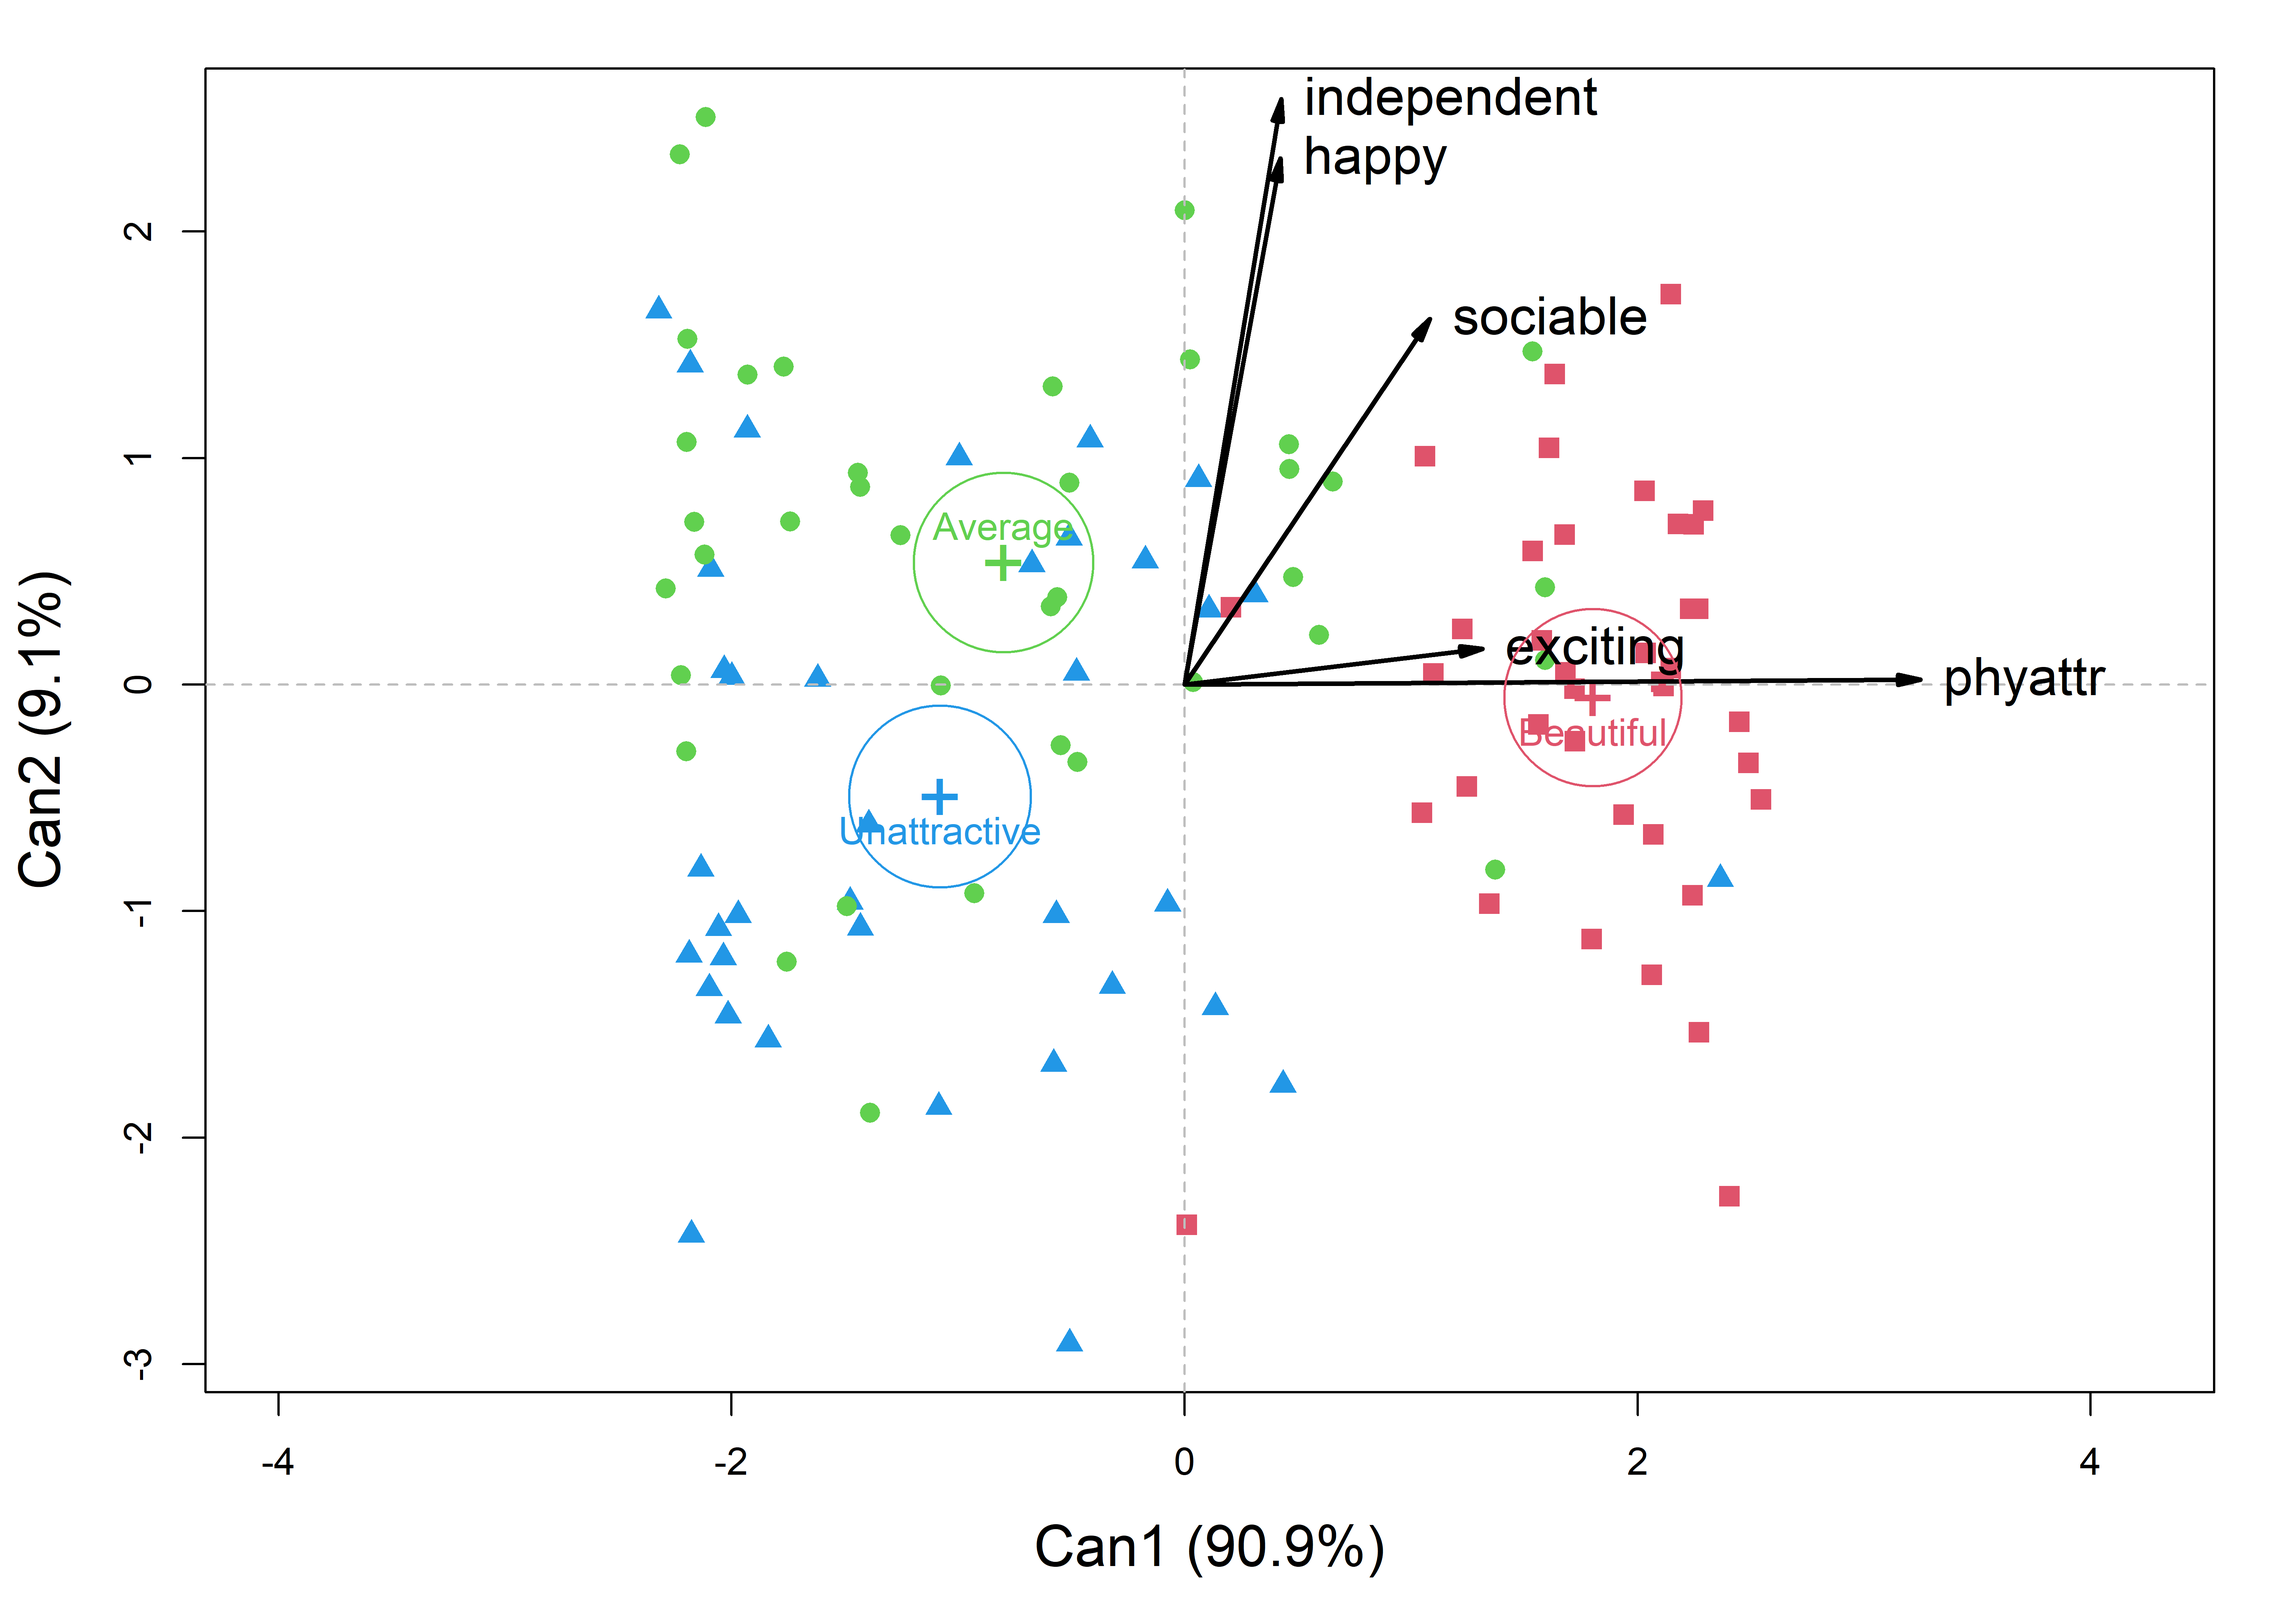
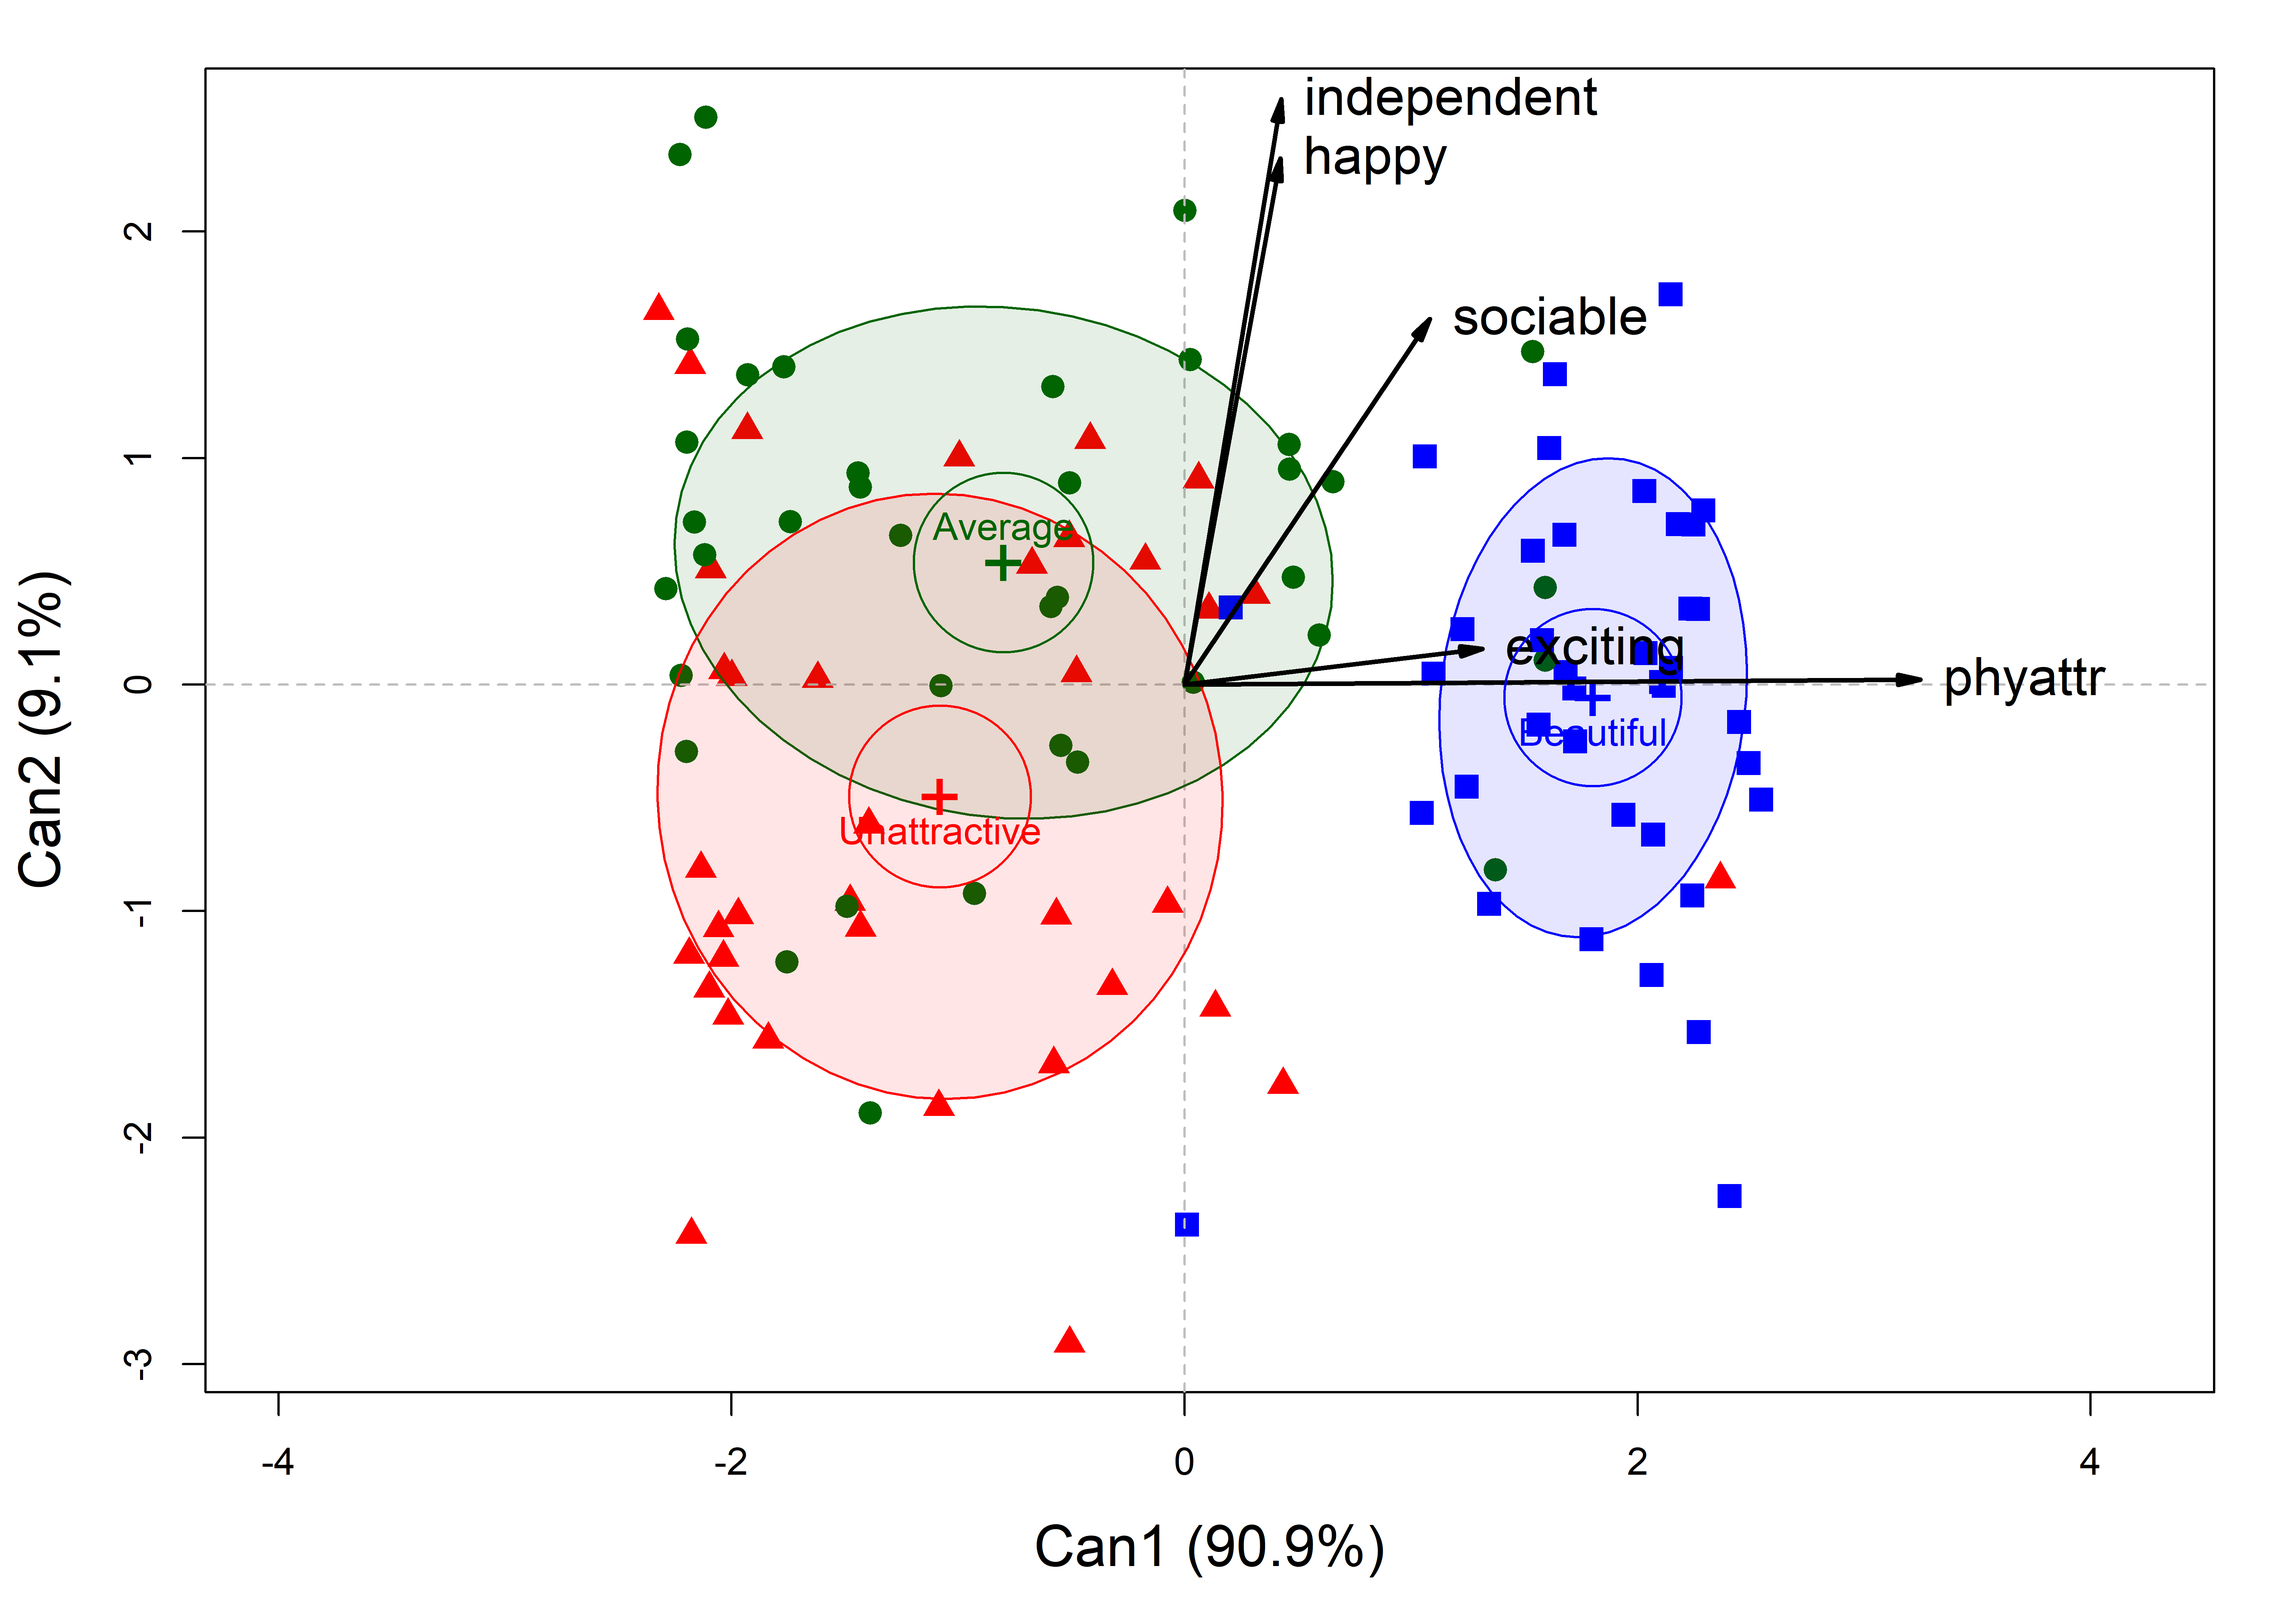
tweak Ch10 MockJury ex

diff --git a/docs/11-mlm-viz.html b/docs/11-mlm-viz.html
@@ -1069,7 +1069,7 @@ Figure&nbsp;11.12: HE plot for effects on <code>tear</code> and <code>gloss</cod
 <img src="figs/ch11/fig-jury-HE-1.png" class="img-fluid quarto-figure quarto-figure-center figure-img" style="width:100.0%">
 </div>
 <figcaption class="quarto-float-caption-bottom quarto-float-caption quarto-float-fig" id="fig-jury-HE-caption-0ceaefa1-69ba-4598-a22c-09a6ac19f8ca">
-Figure&nbsp;11.13: Two pairwise HE plots showing the effect of the classified attractivenes of the photo and ratings of those photos. Left: <code>exciting</code> vs.&nbsp;<code>phyattr</code> ratings; right: <code>independent</code> vs.&nbsp;<code>phyattr</code> ratings
+Figure&nbsp;11.13: Two pairwise HE plots showing the effect of the classified attractivenes of the photo and ratings of those photos. Left: <code>exciting</code> vs.&nbsp;<code>phyattr</code> ratings; right: <code>independent</code> vs.&nbsp;<code>phyattr</code> ratings.
 </figcaption></figure>
 </div>
 </div>
@@ -1099,13 +1099,16 @@ Figure&nbsp;11.13: Two pairwise HE plots showing the effect of the classified at
 </div>
 <p>The 2D plot of canonical scores in <a href="#fig-jury-can" class="quarto-xref">Figure&nbsp;<span>11.14</span></a> gives a very simple description for this model. Dimension <code>Can1</code> widely separates the photo groups, and this dimension is nearly perfectly aligned with the <code>phyattr</code> ratings. Ratings for <code>exciting</code> are also strongly associated with this. This finding is sufficient to claim the validity of the classification used in the experiment.</p>
 <div class="cell" data-layout-align="center">
-<div class="sourceCode" id="cb27" data-source-line-numbers="nil" data-code-line-numbers="nil"><pre class="downlit sourceCode r code-with-copy"><code class="sourceCode R"><span><span class="fu"><a href="https://rdrr.io/r/graphics/plot.default.html">plot</a></span><span class="op">(</span><span class="va">jury.can1</span>, rev.axes <span class="op">=</span> <span class="fu"><a href="https://rdrr.io/r/base/c.html">c</a></span><span class="op">(</span><span class="cn">TRUE</span>, <span class="cn">TRUE</span><span class="op">)</span>,</span>
+<div class="sourceCode" id="cb27" data-source-line-numbers="nil" data-code-line-numbers="nil"><pre class="downlit sourceCode r code-with-copy"><code class="sourceCode R"><span><span class="va">col</span> <span class="op">&lt;-</span> <span class="fu"><a href="https://rdrr.io/r/base/c.html">c</a></span><span class="op">(</span><span class="st">"blue"</span>, <span class="st">"darkgreen"</span>, <span class="st">"red"</span><span class="op">)</span></span>
+<span><span class="fu"><a href="https://rdrr.io/r/graphics/plot.default.html">plot</a></span><span class="op">(</span><span class="va">jury.can1</span>, rev.axes <span class="op">=</span> <span class="fu"><a href="https://rdrr.io/r/base/c.html">c</a></span><span class="op">(</span><span class="cn">TRUE</span>, <span class="cn">TRUE</span><span class="op">)</span>,</span>
+<span>     col <span class="op">=</span> <span class="va">col</span>,</span>
+<span>     ellipse <span class="op">=</span> <span class="cn">TRUE</span>, ellipse.prob <span class="op">=</span> <span class="fl">0.5</span>,</span>
 <span>     lwd <span class="op">=</span> <span class="fl">3</span>,</span>
 <span>     var.lwd <span class="op">=</span> <span class="fl">2</span>,</span>
 <span>     var.cex <span class="op">=</span> <span class="fl">1.4</span>,</span>
 <span>     var.col <span class="op">=</span> <span class="st">"black"</span>,</span>
 <span>     pch <span class="op">=</span> <span class="fl">15</span><span class="op">:</span><span class="fl">17</span>,</span>
-<span>     cex <span class="op">=</span> <span class="fl">1.2</span>,</span>
+<span>     cex <span class="op">=</span> <span class="fl">1.4</span>,</span>
 <span>     cex.lab <span class="op">=</span> <span class="fl">1.5</span><span class="op">)</span></span></code><button title="Copy to Clipboard" class="code-copy-button"><i class="bi"></i></button></pre></div>
 <div class="cell-output-display">
 <div id="fig-jury-can" class="quarto-float quarto-figure quarto-figure-center anchored" data-fig-align="center">
@@ -1113,12 +1116,12 @@ Figure&nbsp;11.13: Two pairwise HE plots showing the effect of the classified at
 <img src="figs/ch11/fig-jury-can-1.png" class="img-fluid quarto-figure quarto-figure-center figure-img" style="width:80.0%">
 </div>
 <figcaption class="quarto-float-caption-bottom quarto-float-caption quarto-float-fig" id="fig-jury-can-caption-0ceaefa1-69ba-4598-a22c-09a6ac19f8ca">
-Figure&nbsp;11.14: Canonical discriminant plot for the factor <code>Attr</code> …
+Figure&nbsp;11.14: Canonical discriminant plot for the factor <code>Attr</code> in the model <code>jury.mod1</code> for the ratings of the photos classified as <span style="color: blue;">Beautiful</span> <span style="color: darkgreen;">Average</span> or <span style="color: red;">Unattractive</span> . Ellipses have 50% coverage for the canonical scores. Variable vectors reflect the correlations of the rating scales with the canonical dimensions.
 </figcaption></figure>
 </div>
 </div>
 </div>
-<p>The second canonical dimension, <code>Can2</code> is also of some interest. The photo means differ here mainly between those considered of Average beauty and those classified as Unattractive. The ratings for independent and happy are most strongly associated with this. Ratings on <code>sociable</code> are related to both dimensions, but more so with <code>Can2</code>.</p>
+<p>The second canonical dimension, <code>Can2</code> is also of some interest. The photo means differ here mainly between those considered of Average beauty and those classified as Unattractive. The ratings for independent and happy are most strongly associated with this dimension. Ratings on <code>sociable</code> are related to both dimensions, but more so with <code>Can2</code>.</p>
 </div>
 </section><section id="quantitative-predictors-mmra" class="level2" data-number="11.9"><h2 data-number="11.9" class="anchored" data-anchor-id="quantitative-predictors-mmra">
 <span class="header-section-number">11.9</span> Quantitative predictors: MMRA</h2>
@@ -1589,7 +1592,7 @@ Huang, F. L. (2019). <span>MANOVA</span>: A procedure whose time has passed? <em
 <li id="fn7"><p>If significance scaling was used the interpretation of the canonical HE plot plot would the same as before: if the hypothesis ellipse extends beyond the error ellipse, then that dimension is significant.<a href="#fnref7" class="footnote-back" role="doc-backlink">↩</a></p></li>
 <li id="fn8"><p>As in univariate linear models, any factors or covariates ignored in the model formula have their effects pooled with the error term, reducing the sensitivity of their tests.<a href="#fnref8" class="footnote-back" role="doc-backlink">↩</a></p></li>
 <li id="fn9"><p>You could test this comparison with a more focused 1 df linear hypothesis using the contrast <span class="math inline">\((1, -\frac12, -\frac12)\)</span> for the levels of <code>Attr</code>.<a href="#fnref9" class="footnote-back" role="doc-backlink">↩</a></p></li>
-<li id="fn10"><p>For MANOVA designs there is a separate analysis for each term in the model. …<a href="#fnref10" class="footnote-back" role="doc-backlink">↩</a></p></li>
+<li id="fn10"><p>For MANOVA designs there is a separate analysis for each term in the model because the error<a href="#fnref10" class="footnote-back" role="doc-backlink">↩</a></p></li>
 <li id="fn11"><p>An alternative to fitting the model removing specific cases deemed troublesome is to use a <strong>robust</strong> method, such as <code>heplots::roblm()</code>. This uses re-weighted least squares to down-weight observations with large residuals or other problems. These methods are illustrated in <a href="13-infl-robust.html#sec-robust-estimation" class="quarto-xref"><span>Section 13.5</span></a>.<a href="#fnref11" class="footnote-back" role="doc-backlink">↩</a></p></li>
 </ol></section></main><!-- /main --><script id="quarto-html-after-body" type="application/javascript">
   window.document.addEventListener("DOMContentLoaded", function (event) {
